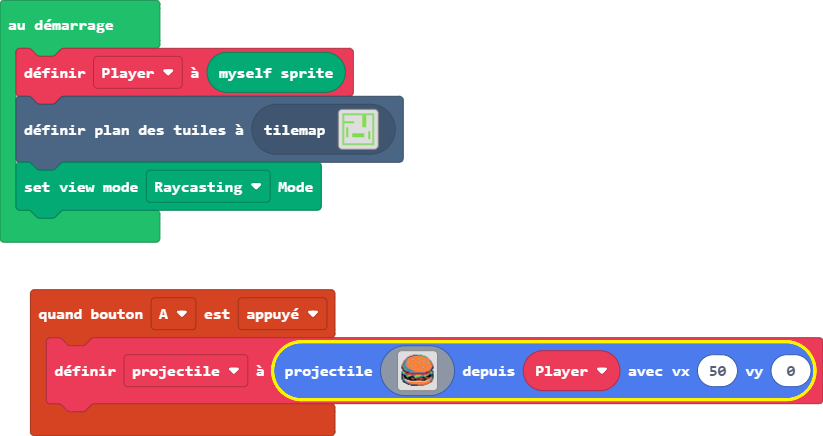
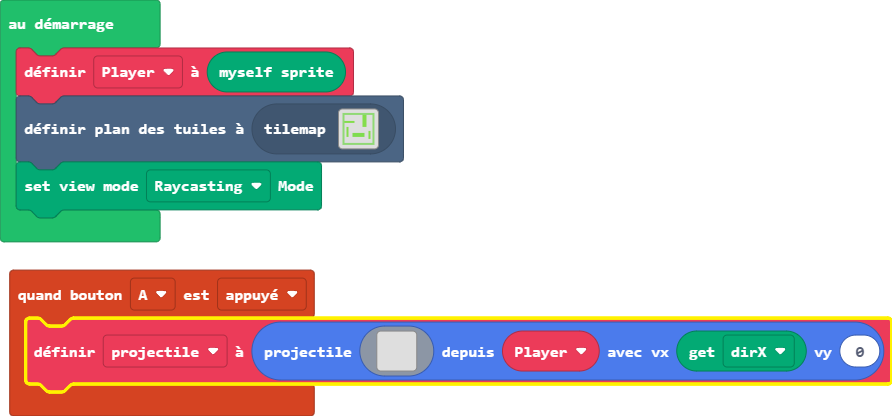
Mise à jour main.blocks, main.ts

Changed region(s): [[0.0, 0.625, 1.0, 1.0], [0.0, 0.0, 0.5164, 0.5938]]

diff --git a/main.ts b/main.ts
@@ -1,38 +1,22 @@
 controller.A.onEvent(ControllerButtonEvent.Pressed, function () {
     projectile = sprites.createProjectileFromSprite(img`
-        ...........ccccc66666...........
-        ........ccc4444444444666........
-        ......cc444444444bb4444466......
-        .....cb4444bb4444b5b444444b.....
-        ....eb4444b5b44444b44444444b....
-        ...ebb44444b4444444444b444446...
-        ..eb6bb444444444bb444b5b444446..
-        ..e6bb5b44444444b5b444b44bb44e..
-        .e66b4b4444444444b4444444b5b44e.
-        .e6bb444444444444444444444bb44e.
-        eb66b44444bb444444444444444444be
-        eb66bb444b5b44444444bb44444444be
-        fb666b444bb444444444b5b4444444bf
-        fcb666b44444444444444bb444444bcf
-        .fbb6666b44444444444444444444bf.
-        .efbb66666bb4444444444444444bfe.
-        .86fcbb66666bbb44444444444bcc688
-        8772effcbbbbbbbbbbbbbbbbcfc22778
-        87722222cccccccccccccccc22226678
-        f866622222222222222222222276686f
-        fef866677766667777776667777fffef
-        fbff877768f86777777666776fffffbf
-        fbeffeefffeff7766688effeeeefeb6f
-        f6bfffeffeeeeeeeeeeeeefeeeeebb6e
-        f66ddfffffeeeffeffeeeeeffeedb46e
-        .c66ddd4effffffeeeeeffff4ddb46e.
-        .fc6b4dddddddddddddddddddb444ee.
-        ..ff6bb444444444444444444444ee..
-        ....ffbbbb4444444444444444ee....
-        ......ffebbbbbb44444444eee......
-        .........fffffffcccccee.........
-        ................................
-        `, Player, 50, 0)
+        . . . . . . . . . . . . . . . . 
+        . . . . . . . . . . . . . . . . 
+        . . . . . . . . . . . . . . . . 
+        . . . . . . . . . . . . . . . . 
+        . . . . . . . . . . . . . . . . 
+        . . . . . . . . . . . . . . . . 
+        . . . . . . . . . . . . . . . . 
+        . . . . . . . . . . . . . . . . 
+        . . . . . . . . . . . . . . . . 
+        . . . . . . . . . . . . . . . . 
+        . . . . . . . . . . . . . . . . 
+        . . . . . . . . . . . . . . . . 
+        . . . . . . . . . . . . . . . . 
+        . . . . . . . . . . . . . . . . 
+        . . . . . . . . . . . . . . . . 
+        . . . . . . . . . . . . . . . . 
+        `, Player, Render.getAttribute(Render.attribute.dirX), 0)
 })
 let projectile: Sprite = null
 let Player: Sprite = null
